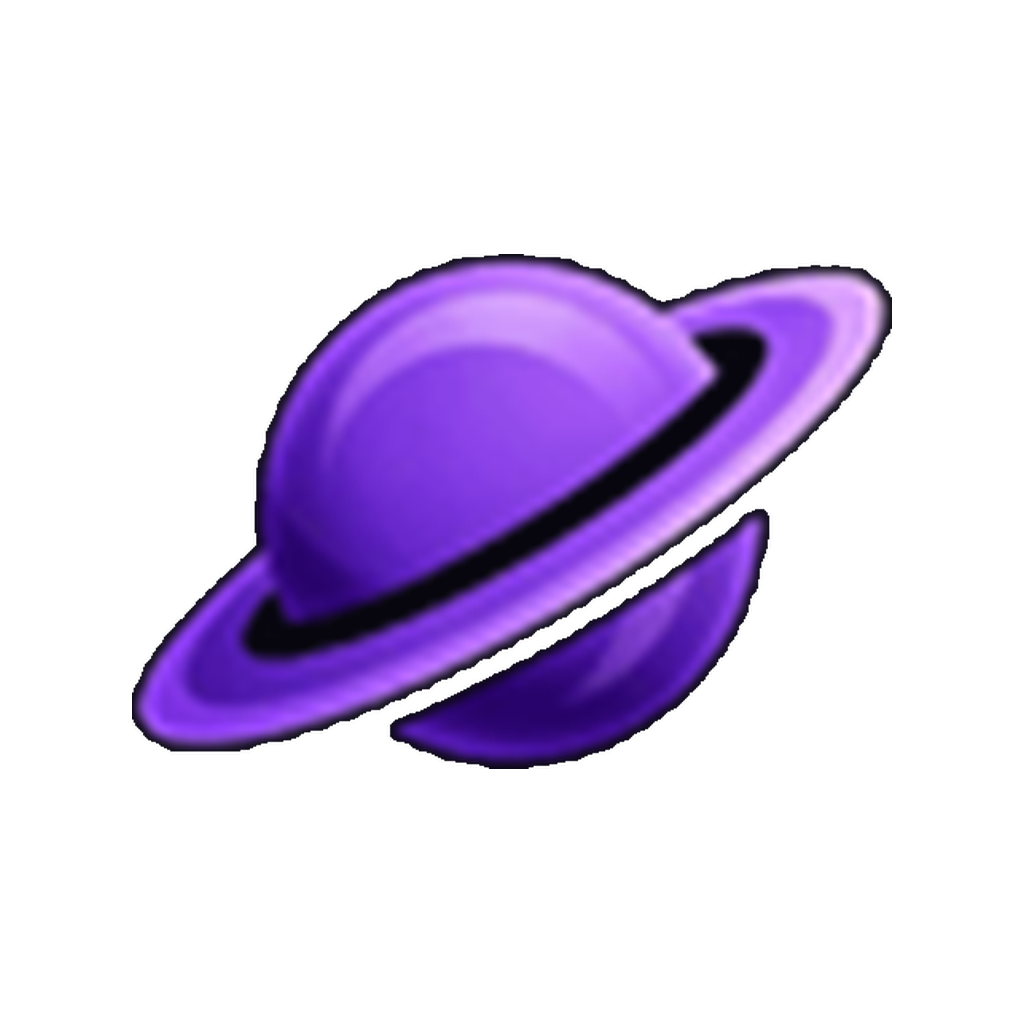
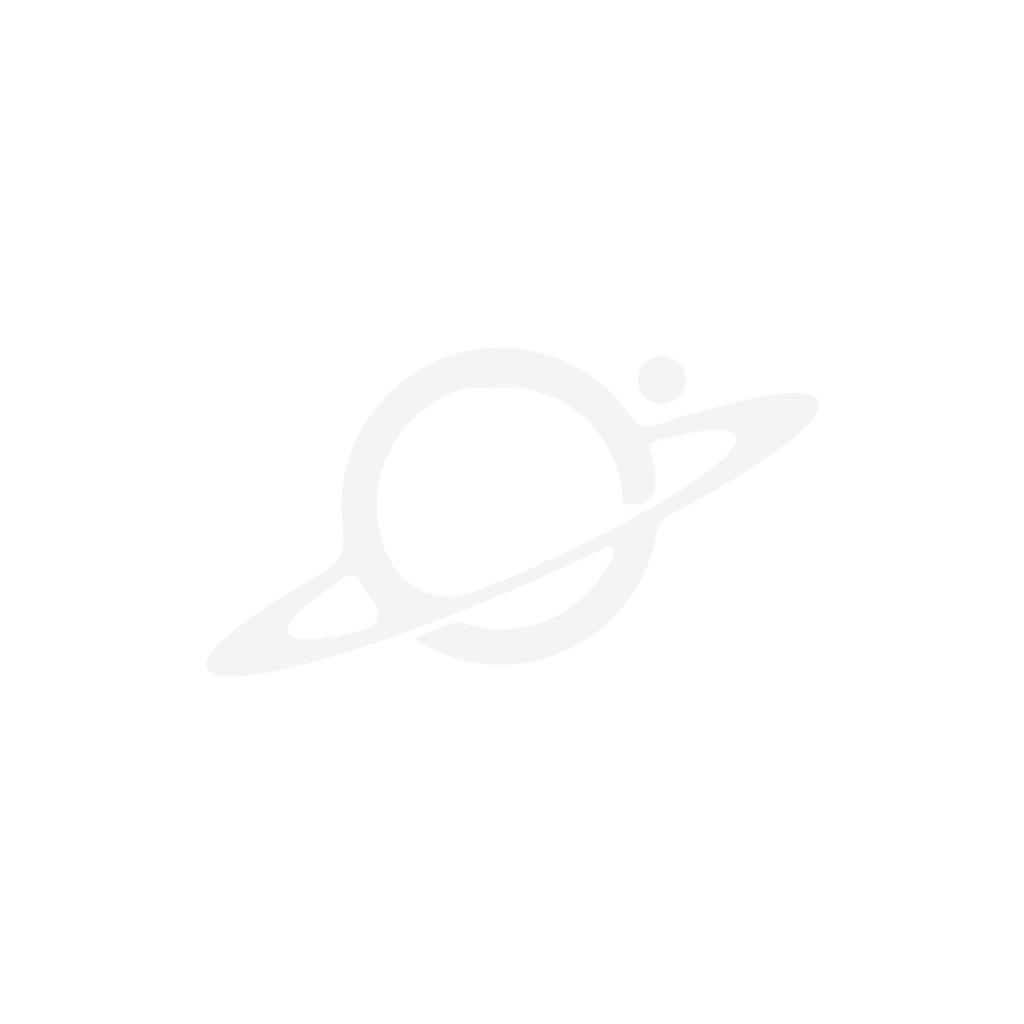
feat: derive brand assets from the Orbit mark

Changed region(s): [[0.125, 0.25, 0.875, 0.75]]

diff --git a/apps/web/app/layout.tsx b/apps/web/app/layout.tsx
@@ -35,10 +35,28 @@ const roboto = Roboto({
 
 export async function generateMetadata(): Promise<Metadata> {
   const t = await getTranslations('meta')
+  const title = t('title')
+  const description = t('description')
   return {
     metadataBase: new URL(process.env.NEXT_PUBLIC_SITE_URL ?? 'https://app.useorbit.org'),
-    title: t('title'),
-    description: t('description'),
+    title,
+    description,
+    manifest: '/manifest.webmanifest',
+    icons: {
+      icon: [{ url: '/favicon.png', type: 'image/png', sizes: '64x64' }],
+    },
+    openGraph: {
+      title,
+      description,
+      type: 'website',
+      images: [{ url: '/og-image.png', width: 1200, height: 630 }],
+    },
+    twitter: {
+      card: 'summary_large_image',
+      title,
+      description,
+      images: ['/og-image.png'],
+    },
   }
 }
 

diff --git a/apps/web/app/manifest.ts b/apps/web/app/manifest.ts
@@ -1,0 +1,24 @@
+import type { MetadataRoute } from 'next'
+
+export default function manifest(): MetadataRoute.Manifest {
+  return {
+    name: 'Orbit',
+    short_name: 'Orbit',
+    start_url: '/',
+    display: 'standalone',
+    background_color: '#09090B',
+    theme_color: '#09090B',
+    icons: [
+      {
+        src: '/pwa-192x192.png',
+        sizes: '192x192',
+        type: 'image/png',
+      },
+      {
+        src: '/pwa-512x512.png',
+        sizes: '512x512',
+        type: 'image/png',
+      },
+    ],
+  }
+}

diff --git a/tools/README.md b/tools/README.md
@@ -68,6 +68,12 @@ These back required CI checks. They fail a merge.
 | `orca-web-port.mjs` | Assigns a deterministic web port in the 3100-4099 window per Orca worktree and records it in the ignored `.orca/web-port`. Root stays on 3000; the database and API stay shared on 5432 and 5000. | `node tools/orca-web-port.mjs` (`--setup`) |
 | `android-emulator.mjs` | Brings the Orbit Android emulator to a ready state. Creates `Orbit_Pixel_9_API_35` when absent, using only hardware values measured to boot. Every serial is resolved to its own AVD before it counts as ready, so an unrelated emulator is never reported or installed to, and a serial it cannot identify is never used. A running AVD is reused only while it still resolves `--verify-host`; otherwise it is restarted with `--dns`, because an emulator someone else started inherits the host resolver that failed to resolve `api.useorbit.org`. Readiness comes from `sys.boot_completed`, never from the launch succeeding. | `node tools/android-emulator.mjs` (`--status`, `--avd`, `--dns`, `--verify-host`, `--timeout`, `--json`) |
 
+## Brand assets
+
+| Tool | What it does | Usage |
+|---|---|---|
+| `generate-brand-assets.mjs` | Regenerates the launcher layers, splash, notification silhouette, web icons, OG composite and Play feature graphic from the canonical Orbit mark. Outputs use the platform canvas and ink tokens with no baked mask radius. | `node tools/generate-brand-assets.mjs --write` |
+
 ## Harness self-test
 
 | Tool | What it does | Usage |
